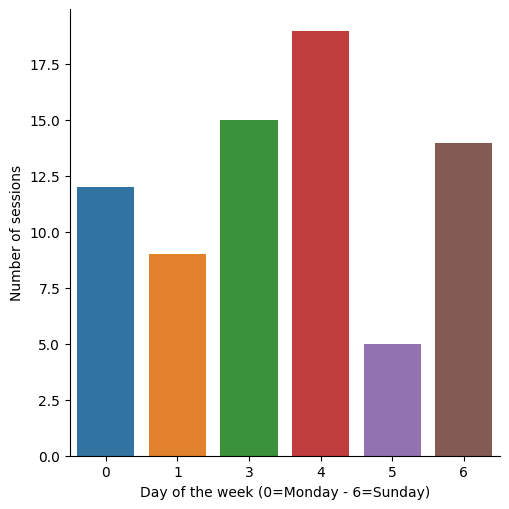
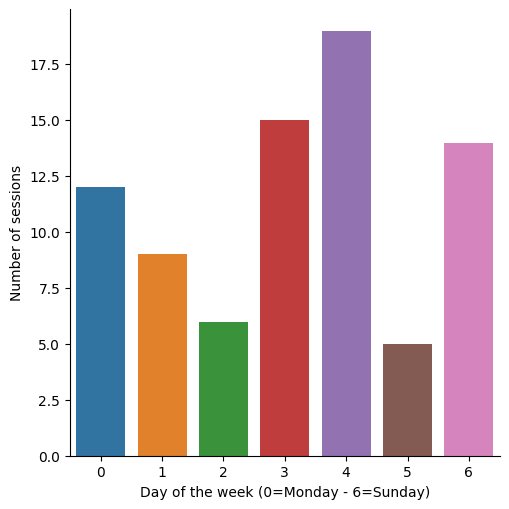
"Stats generated 2021-10-14"

diff --git a/all/2021/10/weekdays/2/index.html b/all/2021/10/weekdays/2/index.html
@@ -1,0 +1,29 @@
+<!DOCTYPE html>
+<html>
+  <head>
+    <meta charset="utf-8"/>
+    <title>Wednesdays October 2021</title>
+    <link rel="stylesheet" href="../../../../../styles.css"/>
+  </head>
+  <body>
+    <div id="container">
+      <nav>
+        <ul>
+          
+            <li><a href="../../">October 2021</a></li>
+            <li class="separator"></li>
+          
+          
+        </ul>
+      </nav>
+      <main>
+        <h1>Wednesdays October 2021</h1>
+        
+          <h2>Number of sessions per hour</h2>
+          <img src="sessions.png" alt="Number of sessions per hour"/>
+        
+        
+      </main>
+    </div>
+  </body>
+</html>

diff --git a/all/2021/10/days/13/index.html b/all/2021/10/days/13/index.html
@@ -1,0 +1,29 @@
+<!DOCTYPE html>
+<html>
+  <head>
+    <meta charset="utf-8"/>
+    <title>13 October 2021</title>
+    <link rel="stylesheet" href="../../../../../styles.css"/>
+  </head>
+  <body>
+    <div id="container">
+      <nav>
+        <ul>
+          
+            <li><a href="../../">October 2021</a></li>
+            <li class="separator"></li>
+          
+          
+        </ul>
+      </nav>
+      <main>
+        <h1>13 October 2021</h1>
+        
+          <h2>Number of sessions per hour</h2>
+          <img src="sessions.png" alt="Number of sessions per hour"/>
+        
+        
+      </main>
+    </div>
+  </body>
+</html>

diff --git a/all/2021/10/index.html b/all/2021/10/index.html
@@ -27,6 +27,10 @@
             
           
             
+              <li><a href="weekdays/2/">Wednesday</a></li>
+            
+          
+            
               <li><a href="weekdays/3/">Thursday</a></li>
             
           
@@ -76,6 +80,10 @@
           
             
               <li><a href="days/12/">12</a></li>
+            
+          
+            
+              <li><a href="days/13/">13</a></li>
             
           
         </ul>

diff --git a/all/2021/index.html b/all/2021/index.html
@@ -143,9 +143,9 @@
                   
                     <td>10.0</td>
                   
-                    <td>74.0</td>
+                    <td>80.0</td>
                   
-                    <td>22.521004841666667</td>
+                    <td>22.734736591666667</td>
                   
                 </tr>
               
